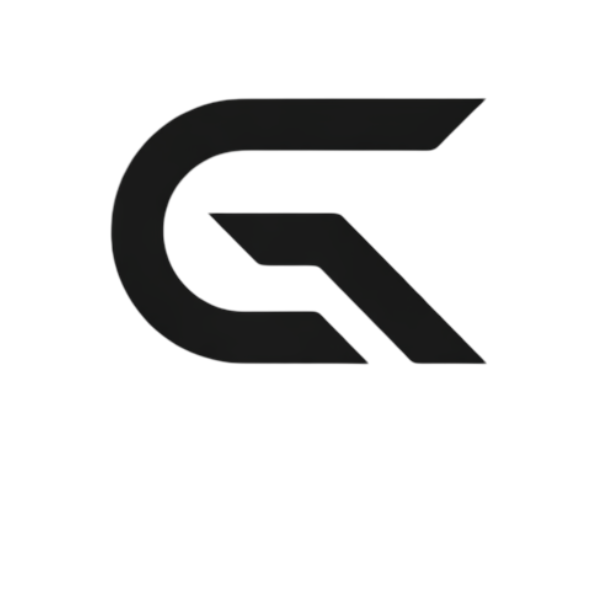
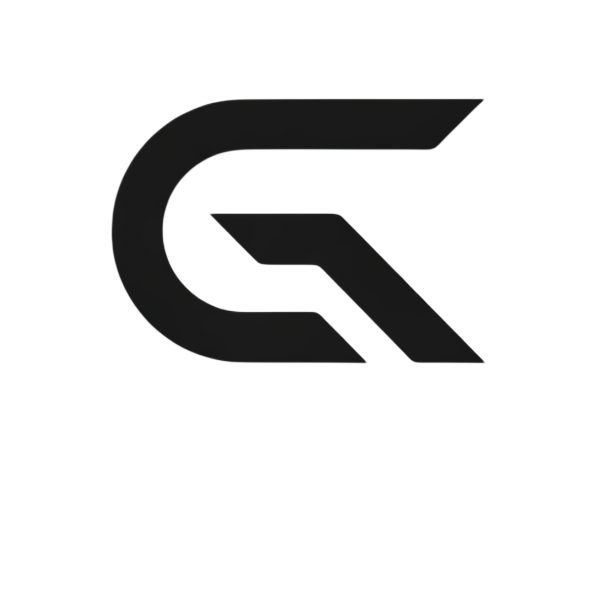
style: usar logologin4.png en el panel principal del login

diff --git a/src/components/auth/Login.jsx b/src/components/auth/Login.jsx
@@ -162,7 +162,7 @@ export default function Login() {
           {/* Logo grande */}
           <div className="mb-10 transition-all hover:scale-105 duration-500">
             <img
-              src="/logologin2.png"
+              src="/logologin4.png"
               alt="Gestify"
               className="h-72 w-auto object-contain drop-shadow-2xl"
             />
